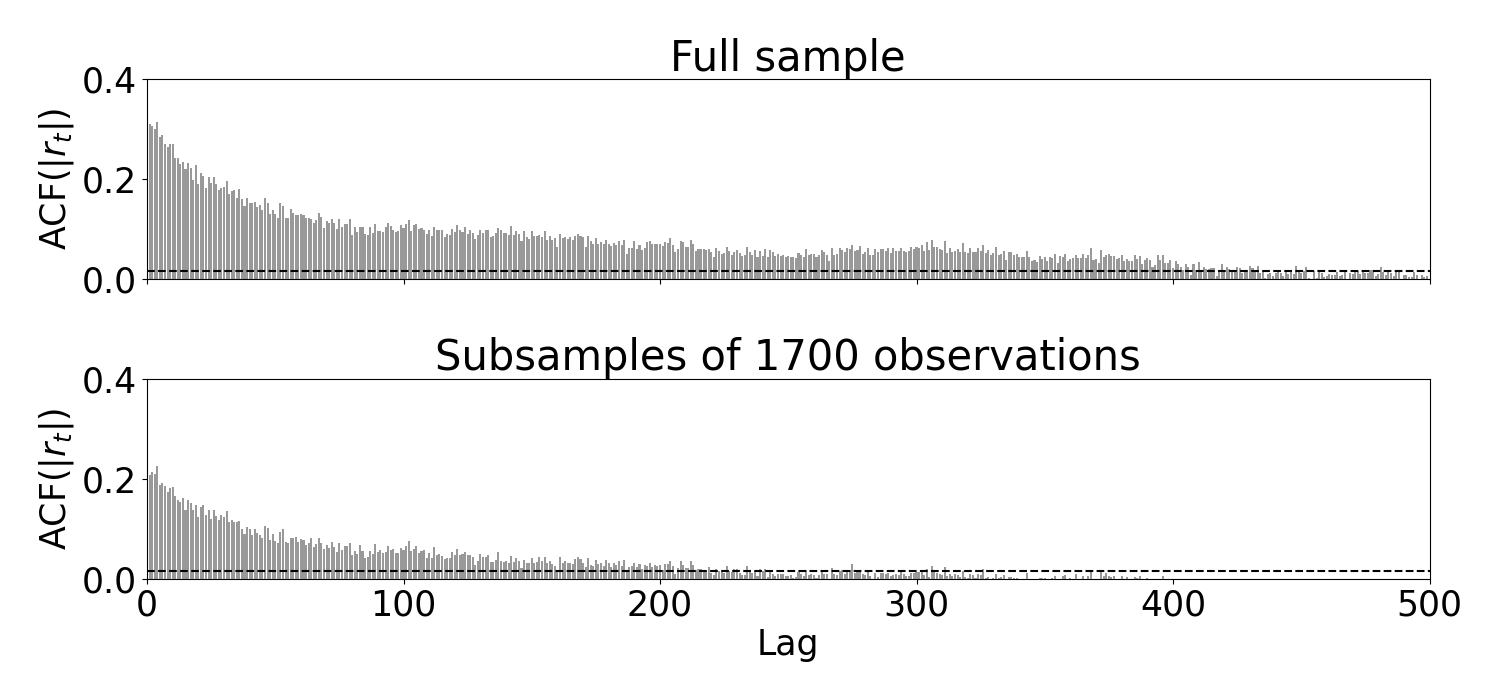
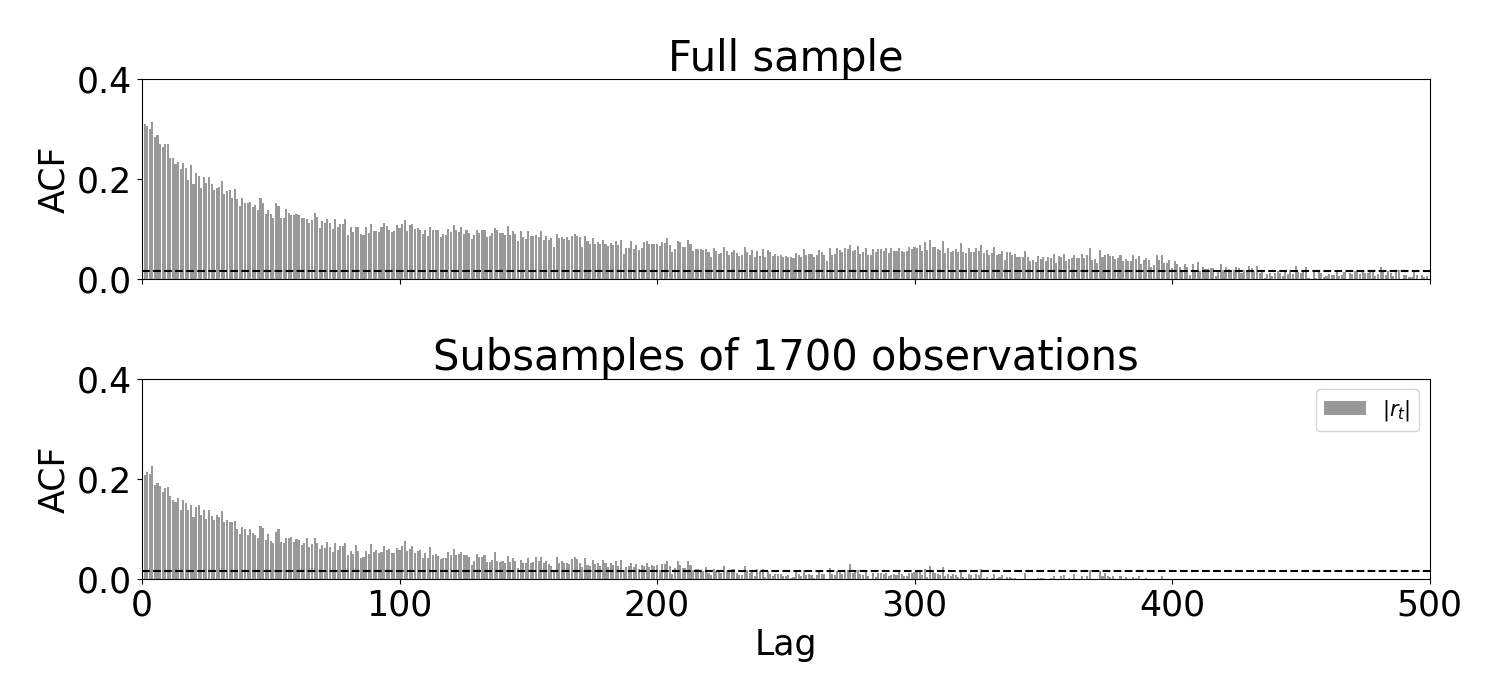
Updated graphs

diff --git a/analysis/stylized_facts/plot_rolling_estimations.py b/analysis/stylized_facts/plot_rolling_estimations.py
@@ -181,7 +181,7 @@ def plot_rolling_parameters(df, model ='mle', savefig=None):
 def plot_moments_regular(df, logrets, window_len=1700, moving_window=50,
                          outlier_corrected=False, savefig=None):
     """ Plot the first four moments of estimated models along with returns"""
-
+    logrets = logrets.iloc[-len(df):]
     # Refit logreturns into rolling subsamples
     log_rets = get_rolling_logrets(df, logrets,
                                    window_len=1700, moving_window=moving_window, outlier_corrected=outlier_corrected)
@@ -203,7 +203,7 @@ def plot_moments_regular(df, logrets, window_len=1700, moving_window=50,
     # Loop through each subplot
     for i, (ax, moment, label) in enumerate(zip(axs, empirical_moments, labels)):
         # Plot empirical returns moment
-        ax.plot(logrets.index[(window_len+moving_window):], moment, label=r'$(r_t)$', color='grey', ls='--')
+        ax.plot(logrets.index[(window_len+moving_window):], moment, label=r'$r_t$', color='grey', ls='--')
         # Inner loop allows drawing of several models
         for model in models:
             plot_data = df[df['model'] == model]
@@ -251,7 +251,7 @@ def plot_moments_bulla(df, logrets, window_len=1700, moving_window=50,
     # Loop through each subplot
     for i, (ax, moment, label) in enumerate(zip(axes, empirical_moments, labels)):
         # Plot empirical returns moment
-        ax.plot(logrets.index[(window_len+moving_window):], moment, label=r'$(r_t)$', color='grey', ls='--')
+        ax.plot(logrets.index[(window_len+moving_window):], moment, label=r'$|r_t|$', color='grey', ls='--')
         # Inner loop allows drawing of several models
         for model in models:
             plot_data = df[df['model'] == model]
@@ -279,44 +279,50 @@ if __name__ == '__main__':
     logrets_outlier = data.load_long_series_logret(outlier_corrected=True)
 
     # Loading regular and outlier corrected data. Then get means parameters across time
-    path = '../../analysis/stylized_facts/output_data/'
-    df = pd.read_csv(path + 'moments_abs.csv', index_col='timestamp', parse_dates=True)
-    df_outlier = pd.read_csv(path + 'moments_abs_outlier.csv',
-                             index_col='timestamp', parse_dates=True)
-    data_table = df.groupby(['window_len', 'model']).mean().sort_index(ascending=[True, False])
-    data_table_outlier = df_outlier.groupby(['window_len', 'model']).mean().sort_index(ascending=[True, False])
+    path = './output_data/'
+    df = pd.read_csv(path + 'moments.csv', index_col='timestamp', parse_dates=True)
+
+    # Remove extreme values in in mle TPM
+    df_mle = df[df['$q_{11}$'] > 0.90]
+
+    df_abs = pd.read_csv(path + 'moments_abs.csv', index_col='timestamp', parse_dates=True)
+    df_abs_outlier = pd.read_csv(path + 'moments_abs_outlier.csv',
+                                 index_col='timestamp', parse_dates=True)
+    data_table = df_abs.groupby(['window_len', 'model']).mean().sort_index(ascending=[True, False])
+    data_table_outlier = df_abs_outlier.groupby(['window_len', 'model']).mean().sort_index(ascending=[True, False])
 
     print(data_table)
 
-    save = False
+    save = True
     moving_window = 50
     if save is True:
         #Regular data
-        plot_moments_bulla(df, np.abs(logrets),
+        dir = ''
+        plot_moments_bulla(df_abs, np.abs(logrets),
                            moving_window=moving_window, outlier_corrected=False,
-                           savefig='moments_bulla_abs.png')
-        plot_moments_regular(df, np.abs(logrets), moving_window=moving_window, savefig='moments_regular_abs.png')
+                           savefig=dir+'moments_bulla_abs.png')
+        plot_moments_regular(df, logrets, moving_window=moving_window, savefig=dir+'moments_regular.png')
 
-        plot_rolling_parameters(df, model='jump', savefig='2-state JUMP HMM rolling params.png')
-        plot_rolling_parameters(df, model='mle', savefig='2-state MLE HMM rolling params.png')
+        plot_rolling_parameters(df, model='jump', savefig=dir+'2-state JUMP HMM rolling params.png')
+        plot_rolling_parameters(df_mle, model='mle', savefig=dir+'2-state MLE HMM rolling params.png')
 
         #Outlier corrected
-        plot_moments_bulla(df_outlier, np.abs(logrets_outlier),
+        plot_moments_bulla(df_abs_outlier, np.abs(logrets_outlier),
                            moving_window=moving_window, outlier_corrected=False,
-                           savefig='moments_bulla_abs_outlier.png')
+                           savefig=dir+'moments_bulla_abs_outlier.png')
     else:
         # Regular data
-        plot_moments_bulla(df, np.abs(logrets), moving_window=moving_window, outlier_corrected=False, savefig=None)
-        plot_moments_bulla(df_outlier, np.abs(logrets_outlier), moving_window=moving_window, outlier_corrected=False, savefig=None)
-
+        plot_moments_bulla(df_abs, np.abs(logrets), moving_window=moving_window, outlier_corrected=False, savefig=None)
         plot_moments_regular(df, logrets, moving_window=moving_window, outlier_corrected=False, savefig=None)
 
         plot_rolling_parameters(df, model='jump', savefig=None)
-        plot_rolling_parameters(df, model='mle', savefig=None)
+        plot_rolling_parameters(df_mle, model='mle', savefig=None)
 
         # Outlier corrected
-        plot_moments_bulla(df_outlier, logrets_outlier, moving_window=moving_window, outlier_corrected=False, savefig=None)
-        plot_moments_regular(df_outlier, logrets_outlier, moving_window=moving_window, savefig=None)
+        plot_moments_bulla(df_abs_outlier, np.abs(logrets_outlier), moving_window=moving_window, outlier_corrected=False, savefig=None)
+
+
+        #plot_moments_regular(df_outlier, logrets_outlier, moving_window=moving_window, savefig=None)
 
         # Not used plots
         #plot_acf_3D(df, logrets, savefig=None)

diff --git a/analysis/stylized_facts/rolling_acf.py b/analysis/stylized_facts/rolling_acf.py
@@ -102,13 +102,13 @@ def plot_acf(simulations, logret, n_lags=500, savefig=None):
     fig, ax = plt.subplots(nrows=1, ncols=1, figsize=(15, 7), sharex=True)
 
     # ACF of data and models
-    ax.bar(lags, acf_logret, color='black', alpha=0.4)
+    ax.bar(lags, acf_logret, color='black', alpha=0.4, label='$|r_t|$')
     ax.plot(lags, simulations['mle_acf_abs'], label="mle")
     ax.plot(lags, simulations['jump_acf_abs'], label="jump")
 
     ax.axhline(acf_significance, linestyle='dashed', color='black')
     ax.set_xlabel('Lag')
-    ax.set_ylabel(r"ACF($ |r_t|$)")
+    ax.set_ylabel(r"ACF")
     ax.set_xlim(left=0, right=max(lags)+1)
     ax.set_ylim(top=0.4, bottom=0)
 
@@ -135,20 +135,20 @@ def plot_acf_outliers(simulations, simulations_outliers, logret, logret_outliers
 
     # Full data
     ax[0].set_title('Full sample')
-    ax[0].bar(lags, acf_logret, color='black', alpha=0.4)
+    ax[0].bar(lags, acf_logret, color='black', alpha=0.4, label='$|r_t|$')
     ax[0].plot(lags, simulations['mle_acf_abs'].ravel(), label="mle")
     ax[0].plot(lags, simulations['jump_acf_abs'].ravel(), label="jump")
 
     # Outlier-corrected
     ax[1].set_title(r'Outliers limited to $\bar r_t \pm 4\sigma$')
-    ax[1].bar(lags, acf_logret_outliers, color='black', alpha=0.4)
+    ax[1].bar(lags, acf_logret_outliers, color='black', alpha=0.4, label='$|r_t|$')
     ax[1].plot(lags, simulations_outliers['mle_acf_abs'].ravel(), label="mle")
     ax[1].plot(lags, simulations_outliers['jump_acf_abs'].ravel(), label="jump")
     ax[1].set_xlabel('Lag')
 
     for i in range(len(ax)):
         ax[i].axhline(acf_significance, linestyle='dashed', color='black')
-        ax[i].set_ylabel(r"ACF($ |r_t|$)")
+        ax[i].set_ylabel(r"ACF")
         ax[i].set_xlim(left=0, right=max(lags)+1)
         ax[i].set_ylim(top=0.4, bottom=0)
 
@@ -201,12 +201,13 @@ def plot_acf_data(simulations, logret,
 
     # Outlier-corrected
     ax[1].set_title(r'Subsamples of 1700 observations')
-    ax[1].bar(lags, acf_logret_subs, color='black', alpha=0.4)
+    ax[1].bar(lags, acf_logret_subs, color='black', alpha=0.4, label='$|r_t|$')
     ax[1].set_xlabel('Lag')
+    ax[1].legend(fontsize=15)
 
     for i in range(len(ax)):
         ax[i].axhline(acf_significance, linestyle='dashed', color='black')
-        ax[i].set_ylabel(r"ACF($ |r_t|$)")
+        ax[i].set_ylabel(r"ACF")
         ax[i].set_xlim(left=0, right=max(lags)+1)
         ax[i].set_ylim(top=0.4, bottom=0)
 
@@ -231,18 +232,20 @@ def plot_acf_sign(simulations, logret,
     fig, ax = plt.subplots(nrows=2, ncols=1, figsize=(15, 7), sharex=True)
 
     # ACF r
-    ax[0].bar(lags, acf_logret, color='black', alpha=0.4)
+    ax[0].bar(lags, acf_logret, color='black', alpha=0.4, label='$r_t$')
     ax[0].plot(lags, simulations['mle_acf'][:n_lags], label="mle")
     ax[0].plot(lags, simulations['jump_acf'][:n_lags], label="jump")
-    ax[0].set_ylabel(r'ACF($r_t$)')
+    ax[0].set_ylabel(r'ACF')
+    ax[0].legend(fontsize=15, loc='lower right')
 
 
     # ACF sign(r)
-    ax[1].bar(lags, acf_sign_logret, color='black', alpha=0.4)
+    ax[1].bar(lags, acf_sign_logret, color='black', alpha=0.4, label='$sign(r_t)$')
     ax[1].plot(lags, simulations['mle_acf_sign'][:n_lags], label="mle")
     ax[1].plot(lags, simulations['jump_acf_sign'][:n_lags], label="jump")
-    ax[1].set_ylabel(r'ACF($sign(r_t)$)')
+    ax[1].set_ylabel(r'ACF')
     ax[1].set_xlabel('Lag')
+    ax[1].legend(fontsize=15, loc='upper right')
 
     for i in range(len(ax)):
         ax[i].axhline(acf_significance_pos, linestyle='dashed', color='black')

diff --git a/analysis/stylized_facts/rolling_estimations.py b/analysis/stylized_facts/rolling_estimations.py
@@ -1,6 +1,9 @@
 import copy
 
-import pandas as pd; pd.set_option('display.max_columns', 10); pd.set_option('display.width', 320)
+import pandas as pd;
+from sklearn.preprocessing import StandardScaler
+
+pd.set_option('display.max_columns', 10); pd.set_option('display.width', 320)
 from scipy import stats
 import numpy as np
 import matplotlib.pyplot as plt
@@ -143,8 +146,12 @@ if __name__ == '__main__':
 
     #logret = logret[13210:15000]  # Reduce sample size to speed up training
 
-    df = train_rolling_window(logret, mle, jump, window_lens=[1700], n_lags=100, get_acf=True,
-                              absolute_moments=False, outlier_corrected=False, n_sims=5000)
+    scaler = StandardScaler()
+    logret_scaled = scaler.fit_transform(np.array(logret).reshape(-1,1)).reshape(1,-1)[0]
+    logret_scaled = pd.Series(logret_scaled)
+
+    df = train_rolling_window(logret_scaled, mle, jump, window_lens=[1700], n_lags=100, get_acf=True,
+                              absolute_moments=True, outlier_corrected=False, n_sims=5000)
 
     # Group data first by window len and the by each mode. Returns mean value of each remaining parameter
     data_table = df.groupby(['window_len', 'model']).mean().sort_index(ascending=[True, False])
@@ -154,6 +161,6 @@ if __name__ == '__main__':
     save = True
     if save == True:
         path = '../../analysis/stylized_facts/output_data/'
-        df.to_csv(path + 'moments.csv', index=False)
+        df.to_csv(path + 'moments_scaled_abs.csv', index=False)
 
 
